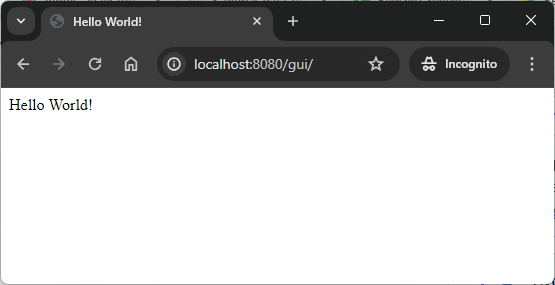
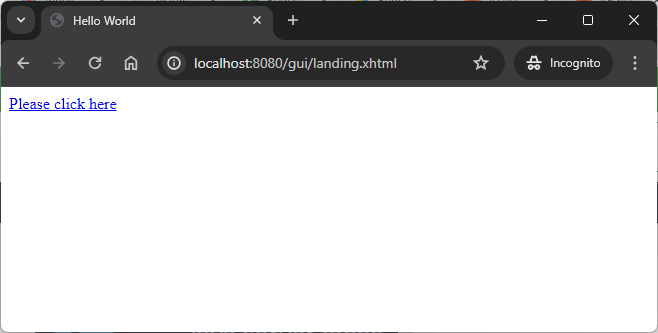
Update Readme file

diff --git a/architectures/gui/jsf/java-ee9-gui-jsf-helloworld-plain-multiple/README.md b/architectures/gui/jsf/java-ee9-gui-jsf-helloworld-plain-multiple/README.md
@@ -9,7 +9,8 @@ Usage steps:
 1. In a command line tool create package with `mvn clean package`
 1. In a command line tool start application with `java -jar pm.jar --deploy .\target\gui.war --port 8080`
 1. In a http browser (e.g. Chrome) visit `http://localhost:8080/gui`
-   * Expected HTML page **Hello World!**
+   * Expected **Landing** page. Click on the link **Please click here**
+   * Expected **HelloWorld** page. Message on this page: **Hello World!**
 1. Clean up environment 
      * In a command line tool stop application with `ctrl + C`
 
@@ -19,19 +20,23 @@ USAGE IMAGES
 
 ![My Image](readme-images/image-01.png)
 
+![My Image](readme-images/image-02.png)
+
 
 DESCRIPTION
 -----------
 
 ##### Goal
-The goal of this project is to present how to implement **signle plain** page in a **GUI JSF Java** application with usage **Java EE 9** framework. Application is deployed on **payara micro** in version 6.
+The goal of this project is to present how to implement **multiple plain** pages in a **GUI JSF Java** application with usage **Java EE 9** framework. Application is deployed on **payara micro** in version 6.
 
-**Single plain** page means that this application contains only one page which displays "Hello World" message.
+**Multiple plain** pages means that this application contains two pages with connectin between them.
 
 ##### Flow
 The following flow takes place in this project:
-1. User via any browser sends request to application for a content.
-1. Application returns response with JSON containing message "Hello World"!. This response is presented to User via browser.
+1. User via any browser sends request to application for a content of Landing page.
+1. Application returns response with Landing page. This response is presented to User via browser.
+1. User via any browser sends request to application for a content of HelloWorld page.
+1. Application returns response with HelloWorld page. This response is presented to User via browser.
 
 ##### Launch
 To launch this application please make sure that the **Preconditions** are met and then follow instructions from **Usage** section.
